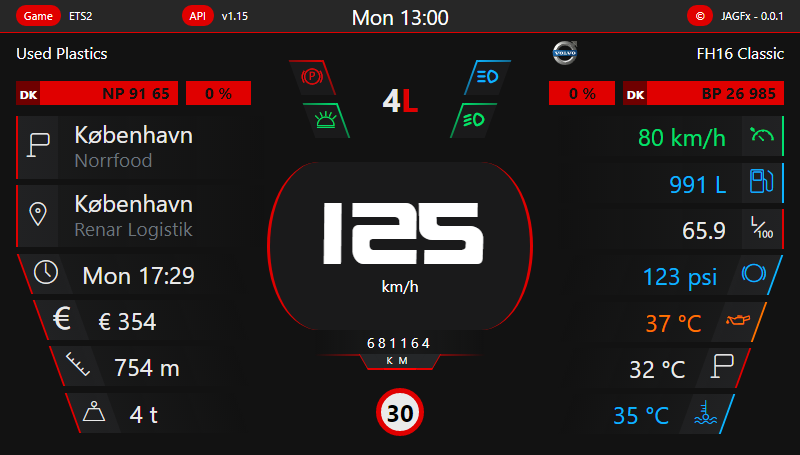
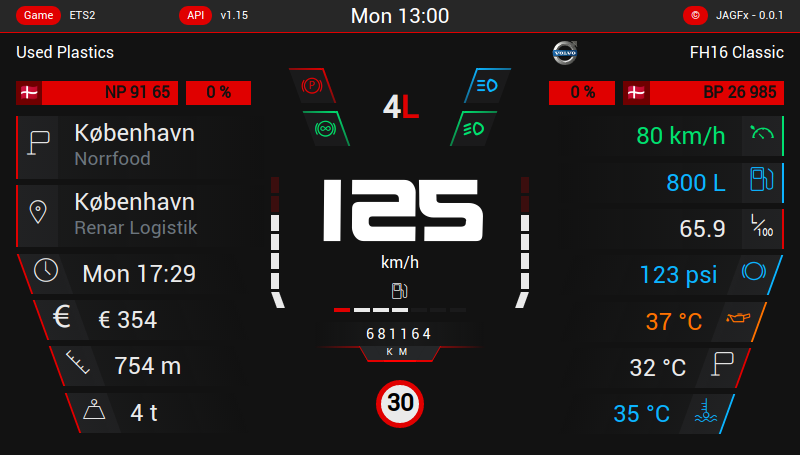
:sparkles: add level indicator of fuel and rpm

diff --git a/src/components/Navigation.vue b/src/components/Navigation.vue
@@ -48,16 +48,57 @@
 						</span>
 					</div>
 				</div>
-			
 			</div>
-			<div class="speed">
+			
+			<!-- Speed -->
+			
+			<div class="speed-area">
+				<div class="speed-wrapper">
+					<div class="left">
+						<!--<span>
+							<span>RPM</span>
+						</span>-->
+						<div class="bars">
+							<div :class="{ 'active' : getRPMBarActive( i ) }" class="bar" v-for="i in 7"></div>
+						</div>
+					</div>
+					<div class="middle">
+						<div class="speed">
+							<span class="value">{{speed.kph}}</span>
+<!--							<small class="unit">km/h</small>-->
+						</div>
+						
+						<div class="fuel-level">
+							<span class="fuel-icon-wrapper">
+								<i :class="{'warning': onWarningLevel() }" class="icon-fuel"></i>
+							</span>
+							
+							<div class="bars">
+								<div :class="{ 'active' : getFuelBarActive( i ) }" class="bar" v-for="i in getFuelBarCount()"></div>
+							</div>
+						</div>
+					</div>
+					<div class="right">
+						<!--<span>
+							<span>RPM</span>
+						</span>-->
+						<div class="bars">
+							<div :class="{ 'active' : getRPMBarActive( i ) }" class="bar" v-for="i in 7"></div>
+						</div>
+					</div>
+				</div>
+			</div>
+			
+			<!--<div class="speed">
 				<span class="value">{{speed.kph}}</span>
 				<small class="unit">km/h</small>
-			</div>
+			</div>-->
+			
 			<div class="odometer">
 				<span class="value">{{Math.round(odometer)}}</span>
 				<small class="unit">km</small>
 			</div>
+			
 			<!-- Speed limit -->
 			<div :class="{ 'hidden': speedLimit.kph === 0 }" class="speedLimits">
 				<div class="speedLimitKPH">{{speedLimit.kph}}</div>
@@ -93,11 +134,13 @@
 			'brand',
 			'odometer',
 			'lights',
-			'brakes'
+			'brakes',
+			'fuel',
+			'engine'
 		],
 		
 		methods: {
-			formatTime:         function ( time ) {
+			formatTime:       function ( time ) {
 				const hours = Math.floor( time / 3600000 );
 				const min   = Math.floor( time % 3600000 / 60000 );
 				
@@ -105,22 +148,22 @@
 				
 			},
 			/*formatNextRestStop: function () {
-				return this.formatTime( this.nextRestStop );
-			},
-			formatETA:          function () {
-				const eta  = this.formatTime( this.time );
-				const date = new Date( this.gameTime + this.time );
-				
-				const days = [ 'Sun', 'Mon', 'Tue', 'Wed', 'Thu', 'Fri', 'Sat' ];
-				
-				return `${ days[ date.getUTCDay() ] } ${ date.getUTCHours() }:${ date.getUTCMinutes() } / ${ eta }`;
-			},*/
-			getTrueGear:        function () {
+			 return this.formatTime( this.nextRestStop );
+			 },
+			 formatETA:          function () {
+			 const eta  = this.formatTime( this.time );
+			 const date = new Date( this.gameTime + this.time );
+			 
+			 const days = [ 'Sun', 'Mon', 'Tue', 'Wed', 'Thu', 'Fri', 'Sat' ];
+			 
+			 return `${ days[ date.getUTCDay() ] } ${ date.getUTCHours() }:${ date.getUTCMinutes() } / ${ eta }`;
+			 },*/
+			getTrueGear:      function () {
 				/*console.log( this );*/
-				let gear      = this.transmission.gear.displayed;
+				let gear    = this.transmission.gear.displayed;
 				let strGear = gear;
 				
-				if( this.transmission.shifterType === 'hshifter' ){
+				if ( this.transmission.shifterType === 'hshifter' ) {
 					let cruzeGear = 0;
 					
 					switch ( this.brand.name ) {
@@ -136,14 +179,14 @@
 						? 'L'
 						: 'H';
 					let realGear      = Math.ceil( realGearCount / 2 );
-					strGear       = realGear + spliter;
+					strGear           = realGear + spliter;
 					
 					if ( gear <= cruzeGear )
 						strGear = 'C' + Math.abs( this.transmission.gear.displayed );
 					
 				}
 				
-				if( this.transmission.shifterType === 'automatic' ){
+				if ( this.transmission.shifterType === 'automatic' ) {
 					strGear = 'D' + gear;
 				}
 				
@@ -155,6 +198,32 @@
 					strGear = 'R' + Math.abs( this.transmission.gear.displayed );
 				
 				return strGear;
+			},
+			getFuelByBar:     function () {
+				return (this.fuel.capacity * this.fuel.warning.factor).toFixed( 0 );
+			},
+			getFuelBarCount:  function () {
+				return Math.ceil( this.fuel.capacity / this.getFuelByBar() );
+			},
+			getFuelBarActive: function ( i ) {
+				const fuelByBar = this.getFuelByBar();
+				const iLow      = i - 1;
+				const fuelBarFrom = (iLow * fuelByBar);
+				
+				//console.log( i, this.fuel.value, fuelBarFrom );
+				return (this.fuel.value >= fuelBarFrom);
+			},
+			onWarningLevel: function () {
+				return this.fuel.value < this.getFuelByBar();
+			},
+			getRPMBarActive: function (i) {
+				const maxBar = 7;
+				const rpmByBar = ( this.engine.rpm.max / maxBar );
+				const iLow      = ( maxBar - i )  ;
+				const rpmBarFrom = (iLow * rpmByBar);
+				
+				//console.log( iLow,this.engine.rpm.value, rpmBarFrom );
+				return (this.engine.rpm.value >= rpmBarFrom && this.engine.rpm.value !== 0);
 			}
 		}
 	};

diff --git a/src/assets/scss/navigation/_speed.scss b/src/assets/scss/navigation/_speed.scss
@@ -6,7 +6,7 @@
  * Time: 	20:16
  */
 
-.speed {
+/*.speed {
 	margin: 1rem 0 0;
 	padding: 2rem 0;
 	
@@ -29,5 +29,170 @@
 	
 	> .unit {
 		font-size: 1rem;
+	}
+}*/
+
+.speed-area{
+	$sizeSide: 3rem;
+	$heightSide: 5rem;
+	margin-top: .5rem;
+	
+	.bars{
+		display: flex;
+		justify-content: center;
+		align-content: center;
+		width: 100%;
+		
+		.bar {
+			margin: .1rem;
+			height: 4px;
+			width: 1rem;
+			background: var(--color-border);
+			
+			&.active{
+				background: var(--color-white);
+			}
+		}
+	}
+	
+	.speed-wrapper .left, .speed-wrapper .right, .bottom{
+		display: flex;
+		padding: .15rem;
+	}
+	
+	.speed-wrapper{
+		display: flex;
+		justify-content: center;
+		align-items: stretch;
+		//transform: translateZ(-100px);
+		
+		.left, .right{
+			display: flex;
+			justify-content: space-between;
+			align-items: center;
+			
+			& > span{
+				font-size: 1rem;
+			}
+			
+			.bars {
+				flex-direction: column;
+				width: 100%;
+				
+				.bar{
+					height: 1rem;
+					width: 8px;
+					
+					&:nth-child(-n+2){
+						background: var(--color-red-transluicide);
+						
+						&.active {
+							background: var(--color-red);
+						}
+					}
+				}
+			}
+		}
+		
+		.left{
+			width: 100%;
+			max-width: $sizeSide;
+			min-width: $sizeSide;
+			flex-direction: row-reverse;
+			
+			& > span {
+				writing-mode: vertical-rl;
+				text-orientation: upright;
+				transform: translateX(-.3rem);
+			}
+			
+			.bars {
+				align-items: flex-start;
+				
+				.bar{
+					&:last-child{
+						transform: skew(20deg);
+						margin-left: 0.3rem;
+					}
+				}
+			}
+		}
+		
+		.middle{
+			width: 100%;
+			margin: 0.5rem 0;
+			
+			.speed{
+				> * {
+					display: block;
+				}
+				
+				.value {
+					font-family: suprrpg !important;
+					font-size: 4.8rem;
+					line-height: 5rem;
+					transform: skew(19deg, 0deg);
+					margin: 0.7rem 0;
+				}
+				
+				> .unit {
+					font-size: 1rem;
+				}
+			}
+		}
+		
+		.right{
+			width: 100%;
+			max-width: $sizeSide;
+			min-width: $sizeSide;
+			
+			& > span {
+				writing-mode: vertical-rl;
+				text-orientation: upright;
+				transform: translateX(.3rem);
+			}
+			
+			.bars {
+				align-items: flex-end;
+				
+				.bar{
+					&:last-child{
+						transform: skew(-20deg);
+						margin-right: 0.3rem;
+					}
+				}
+			}
+		}
+	}
+	
+	.fuel-level{
+		display: flex;
+		flex-direction: column;
+		justify-content: center;
+		align-content: center;
+		
+		.fuel-icon-wrapper{
+			display: flex;
+			justify-content: center;
+			align-items: center;
+			
+			> i {
+				color: var(--color-white);
+				line-height: 0;
+				padding: .5rem;
+				
+				&.warning {
+					background: var(--color-red);
+				}
+			}
+		}
+		
+		.bars .bar:first-child{
+			background: var(--color-red-transluicide);
+			
+			&.active {
+				background: var(--color-red);
+			}
+		}
 	}
 }

diff --git a/src/assets/scss/navigation/_nav-element.scss b/src/assets/scss/navigation/_nav-element.scss
@@ -33,11 +33,15 @@
 			overflow: hidden;
 			color: var(--color-gray);
 			
-			span > * {
-				width: 100%;
-				height: 100%;
-				padding: 0.3rem;
-				font-size: 1.3rem;
+			span {
+				padding-top: .3rem;
+				
+				& > * {
+					width: 100%;
+					height: 100%;
+					padding: 0.3rem;
+					font-size: 1.3rem;
+				}
 			}
 			
 			&:last-child {

diff --git a/gulpfile.js b/gulpfile.js
@@ -2,7 +2,7 @@ const gulp = require( 'gulp' );
 const run  = require( 'gulp-run-command' ).default;
 const fs   = require( 'fs' );
 
-const iconDist          = 'resources/dist';
+const iconDist          = 'resources/dist/';
 const iconSvgs          = 'resources/icons/svgs/*.svg';
 const iconDistFontFiles = [
 	iconDist + '*.svg',

diff --git a/src/assets/scss/common/_variables.scss b/src/assets/scss/common/_variables.scss
@@ -16,6 +16,7 @@
 	--color-white: #EAEAEA;
 	--color-black: #000;
 	--color-red: #E00000;
+	--color-red-transluicide: rgba(224, 0, 0, 0.2);
 	--color-orange: #ff7300;
 	--color-green: #00E070;
 	--color-gray: #3C3F41;

diff --git a/src/App.vue b/src/App.vue
@@ -195,12 +195,6 @@
 		}
 	}
 	
-	.left {
-		height: 100%;
-		display: flex;
-		flex-direction: column;
-	}
-	
 	main {
 		width: 100%;
 		height: 100%;
